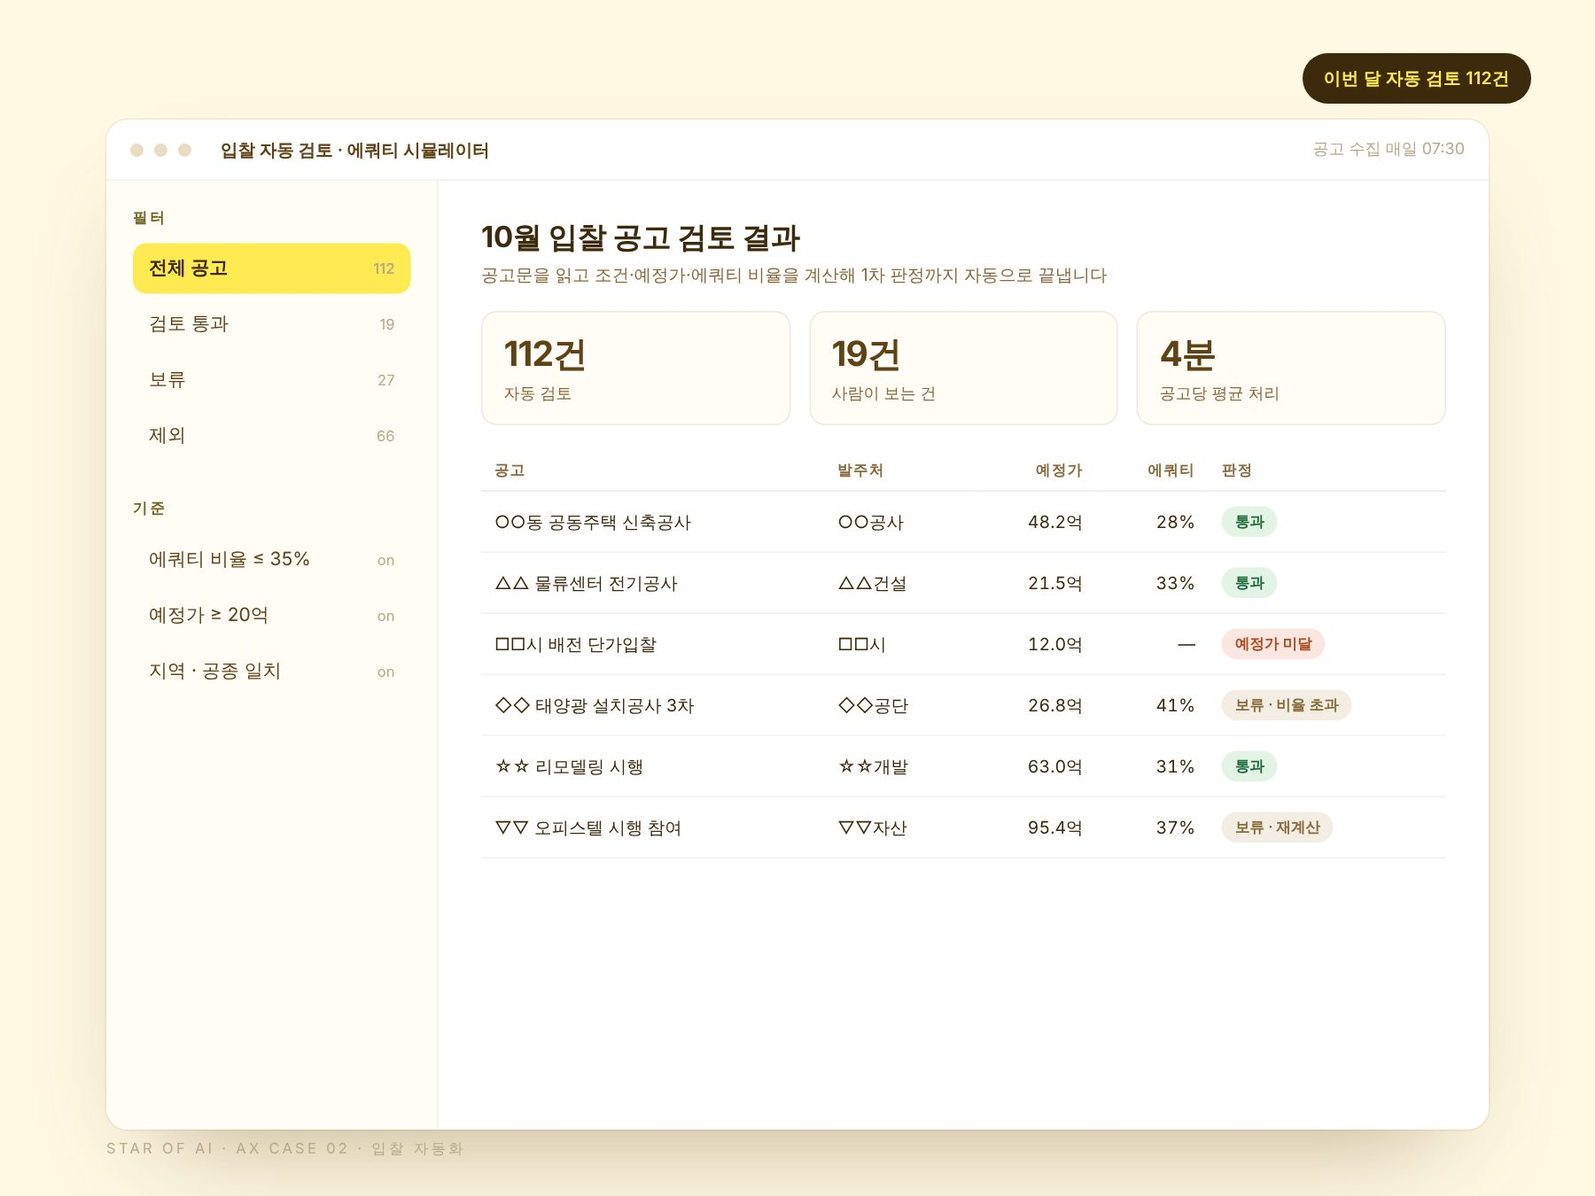
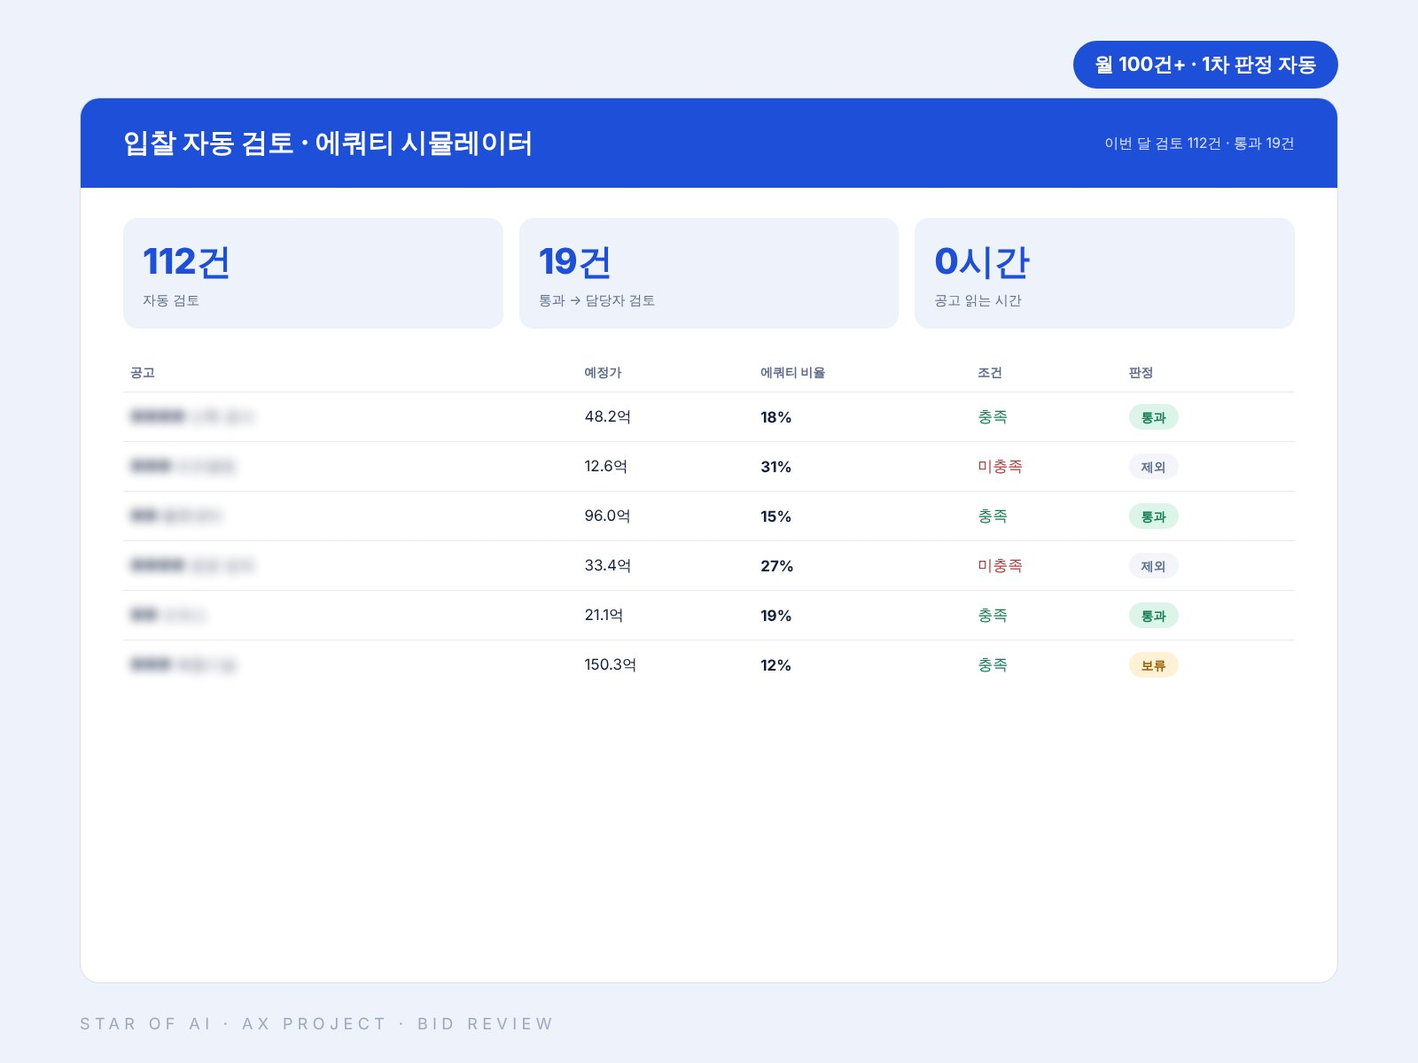
v10: 대비감 강화, 프로젝트 2건 추가, 강의 자료 이미지 반영
- 성과 카드 4장 명도 분리(진브라운→흰→노랑→올리브), 숫자·제목 볼드
- 플랜 카드 노랑→올리브→진브라운 3단계, 가격 42px 볼드
- 수강생 후기 중요 카드 진브라운 반전, 일반 카드 테두리 강화
- 브라운 토큰(brown/dark/light) 더 진하게, 본문 색·아이브로우 대비 ↑
- 프로젝트 추가: 콘텐츠 원가 비용 집계 자동화, 크리에이터·콘텐츠 성과 관리 대시보드
- 썸네일 재제작: cost(네이비+라임), creator(흰+보라), agent(딥그린), bid(블루)
- /study 커리큘럼 카드에 회차별 교안 이미지, 짝수 카드 진브라운
- /study '교안 · 실습 결과물' 띠 추가 (카드뉴스·사이트·브리핑·수료증, 수료증 이름 블러)

Claude-Session: https://claude.ai/code/session_01VqYUrkFTncW5YZPDm17tym

diff --git a/components/PriceCards.tsx b/components/PriceCards.tsx
@@ -1,9 +1,16 @@
 import Link from "next/link";
 import { PRODUCTS } from "@/lib/products";
-import { TONES, type Tone } from "@/lib/tones";
+import { type Tone } from "@/lib/tones";
 import Reveal from "./Reveal";
 
 const TONE_OF: Record<string, Tone> = { study: "starters", consulting: "workers", enterprise: "company" };
+
+// 밝은 노랑 → 중간 올리브 → 진한 브라운, 세 플랜의 명도를 확실히 가르고 가격은 가장 굵게
+const STYLE: Record<Tone, { card: string; eyebrow: string; name: string; summary: string; price: string; unit: string; bullet: string; dot: string; btn: string }> = {
+  starters: { card: "border-butter-deep bg-butter", eyebrow: "text-brown", name: "text-brown-dark", summary: "text-brown/90", price: "text-brown-dark", unit: "text-brown/80", bullet: "text-brown-dark", dot: "text-brown", btn: "btn-primary" },
+  workers: { card: "border-sage/40 bg-sage-soft", eyebrow: "text-sage", name: "text-brown-dark", summary: "text-brown/90", price: "text-brown-dark", unit: "text-brown/80", bullet: "text-brown-dark", dot: "text-sage", btn: "btn-primary" },
+  company: { card: "border-brown-dark bg-brown-dark", eyebrow: "text-butter", name: "text-white", summary: "text-butter-pale/85", price: "text-butter", unit: "text-butter-pale/75", bullet: "text-butter-pale", dot: "text-butter", btn: "btn-yellow" },
+};
 
 /** 세 가지 플랜. 고객군 색으로 구분되고, 아래에 커피챗 안내가 붙어요. */
 export default function PriceCards() {
@@ -12,29 +19,29 @@ export default function PriceCards() {
     <>
       <div className="grid gap-4 md:grid-cols-3">
         {list.map((p, i) => {
-          const t = TONES[TONE_OF[p.id]];
+          const t = STYLE[TONE_OF[p.id]];
           return (
             <Reveal key={p.id} delay={i * 100}>
-              <div className={`flex h-full flex-col rounded-2xl border p-7 transition-transform duration-500 hover:-translate-y-1 md:p-8 ${t.bg} ${t.border}`}>
-                <p className={`text-[12px] font-semibold uppercase tracking-[0.2em] ${t.text}`}>
+              <div className={`flex h-full flex-col rounded-2xl border p-7 transition-transform duration-500 hover:-translate-y-1 md:p-8 ${t.card}`}>
+                <p className={`text-[12px] font-bold uppercase tracking-[0.2em] ${t.eyebrow}`}>
                   {p.audience} · {p.en}
                 </p>
-                <h3 className="mt-4 text-[22px] font-bold leading-snug text-brown-dark">{p.name}</h3>
-                <p className="mt-3 text-[14.5px] leading-relaxed text-brown/85">{p.summary}</p>
+                <h3 className={`mt-4 text-[23px] font-extrabold leading-snug ${t.name}`}>{p.name}</h3>
+                <p className={`mt-3 text-[14.5px] leading-relaxed ${t.summary}`}>{p.summary}</p>
                 <div className="mt-7">
-                  <p className="font-serif text-[38px] font-semibold leading-none text-brown">{p.priceLabel}</p>
-                  <p className="mt-2 text-[13px] text-brown/70">{p.unit}</p>
+                  <p className={`font-serif text-[42px] font-bold leading-none ${t.price}`}>{p.priceLabel}</p>
+                  <p className={`mt-2 text-[13px] font-medium ${t.unit}`}>{p.unit}</p>
                 </div>
-                <ul className="mt-6 space-y-2 border-t border-brown/10 pt-6 text-[14px] text-brown/90">
+                <ul className={`mt-6 space-y-2 border-t border-current/15 pt-6 text-[14px] font-medium ${t.bullet}`}>
                   {p.bullets.map((b) => (
                     <li key={b} className="flex gap-2.5">
-                      <span className={t.text}>·</span>
+                      <span className={t.dot}>·</span>
                       {b}
                     </li>
                   ))}
                 </ul>
                 <div className="mt-auto pt-8">
-                  <Link href={p.href} className="btn-primary w-full">
+                  <Link href={p.href} className={`${t.btn} w-full`}>
                     자세히 보기
                   </Link>
                 </div>
@@ -44,10 +51,10 @@ export default function PriceCards() {
         })}
       </div>
       <Reveal delay={200}>
-        <div className="glass-card mt-6 flex flex-col items-start justify-between gap-4 md:flex-row md:items-center">
+        <div className="mt-6 flex flex-col items-start justify-between gap-4 rounded-2xl border border-brown/20 bg-white p-6 md:flex-row md:items-center md:p-7">
           <p className="text-[16px] text-brown-dark md:text-[17px]">
-            <b className="font-semibold">플랜 선택이 어렵다면 무료 커피챗을 신청해주세요.</b>
-            <span className="ml-2 text-brown/75">30분 안에 어떤 방법이 맞는지 같이 정해드려요.</span>
+            <b className="font-extrabold">플랜 선택이 어렵다면 무료 커피챗을 신청해주세요.</b>
+            <span className="ml-2 font-medium text-brown/80">30분 안에 어떤 방법이 맞는지 같이 정해드려요.</span>
           </p>
           <Link href="#coffee-chat" className="btn-primary shrink-0">무료 커피챗 신청</Link>
         </div>

diff --git a/components/Proof.tsx b/components/Proof.tsx
@@ -6,6 +6,14 @@ import Quote from "./Quote";
 
 const PICKED = [REVIEWS[0], REVIEWS[2], REVIEWS[6]];
 
+// 성과 카드 4장: 진한 브라운 → 흰색 → 노랑 → 올리브, 명도가 확실히 다르게
+const RESULT_STYLE = [
+  { card: "border-brown-dark bg-brown-dark", kind: "text-butter", org: "text-butter-pale/75", big: "text-butter", title: "text-white", desc: "text-butter-pale/85" },
+  { card: "border-brown/25 bg-white shadow-[0_18px_40px_-30px_rgba(46,31,8,.45)]", kind: "text-brown", org: "text-brown/70", big: "text-brown-dark", title: "text-brown-dark", desc: "text-brown/90" },
+  { card: "border-butter-deep bg-butter", kind: "text-brown", org: "text-brown/70", big: "text-brown-dark", title: "text-brown-dark", desc: "text-brown/90" },
+  { card: "border-sage/40 bg-sage-soft", kind: "text-sage", org: "text-brown/70", big: "text-brown-dark", title: "text-brown-dark", desc: "text-brown/90" },
+];
+
 /** 이력을 나열하는 대신, 스크롤하며 설득되는 성과 섹션 */
 export default function Proof() {
   const orgs = Array.from(new Set(LECTURES.map((l) => l.org)));
@@ -34,22 +42,25 @@ export default function Proof() {
       </div>
 
       <div className="space-y-4">
-        {RESULTS.map((r, i) => (
+        {RESULTS.map((r, i) => {
+          const c = RESULT_STYLE[i % RESULT_STYLE.length];
+          return (
           <Reveal key={r.title} delay={i * 80}>
-            <article className={`rounded-2xl border p-7 md:p-9 ${i === 0 ? "border-brown bg-brown text-butter-pale" : "border-brown/10 bg-white"}`}>
+            <article className={`rounded-2xl border p-7 md:p-9 ${c.card}`}>
               <div className="flex items-center justify-between text-[12px]">
-                <span className={`font-semibold uppercase tracking-[0.18em] ${i === 0 ? "text-butter/80" : "text-olive"}`}>{r.kind}</span>
-                <span className={i === 0 ? "text-butter-pale/75" : "text-brown/65"}>{r.org}</span>
+                <span className={`font-bold uppercase tracking-[0.18em] ${c.kind}`}>{r.kind}</span>
+                <span className={c.org}>{r.org}</span>
               </div>
-              <p className={`mt-6 font-serif text-[44px] font-semibold leading-none md:text-[60px] ${i === 0 ? "text-butter" : "text-brown"}`}>{r.big}</p>
-              <p className={`mt-4 text-[18px] font-bold ${i === 0 ? "text-butter" : "text-brown-dark"}`}>{r.title}</p>
-              <p className={`mt-2 text-[15px] leading-relaxed ${i === 0 ? "text-butter-pale/85" : "text-brown/85"}`}>{r.desc}</p>
+              <p className={`mt-6 font-serif text-[48px] font-bold leading-none md:text-[64px] ${c.big}`}>{r.big}</p>
+              <p className={`mt-4 text-[19px] font-extrabold ${c.title}`}>{r.title}</p>
+              <p className={`mt-2 text-[15px] leading-relaxed ${c.desc}`}>{r.desc}</p>
             </article>
           </Reveal>
-        ))}
+          );
+        })}
 
         <Reveal delay={100}>
-          <div className="rounded-2xl bg-paper p-7 md:p-9">
+          <div className="rounded-2xl border border-brown/20 bg-white p-7 md:p-9">
             <div className="grid grid-cols-3 gap-4 text-center">
               {[
                 { v: SURVEY.overall, d: 2, s: "/5", l: "전체 만족도" },
@@ -57,19 +68,19 @@ export default function Proof() {
                 { v: SURVEY.recommend, d: 2, s: "/10", l: "추천 의향" },
               ].map((x) => (
                 <div key={x.l}>
-                  <p className="font-serif text-[34px] font-semibold leading-none text-brown md:text-[44px]">
+                  <p className="font-serif text-[36px] font-bold leading-none text-brown-dark md:text-[46px]">
                     <CountUp value={x.v} decimals={x.d} />
                     <span className="text-[16px]">{x.s}</span>
                   </p>
-                  <p className="mt-2 text-[12px] text-brown/75 md:text-[13px]">{x.l}</p>
+                  <p className="mt-2 text-[12px] font-semibold text-brown md:text-[13px]">{x.l}</p>
                 </div>
               ))}
             </div>
-            <ul className="mt-8 space-y-5 border-t border-brown/10 pt-7">
+            <ul className="mt-8 space-y-5 border-t border-brown/15 pt-7">
               {PICKED.map((r) => (
                 <li key={r.quote}>
-                  <p className="text-[16px] font-medium leading-relaxed text-brown/85 md:text-[17px]">“<Quote text={r.quote} />”</p>
-                  <p className="mt-1.5 text-[12.5px] text-brown/65">{r.who}</p>
+                  <p className="text-[16px] font-medium leading-relaxed text-brown-dark md:text-[17px]">“<Quote text={r.quote} hl />”</p>
+                  <p className="mt-1.5 text-[12.5px] font-medium text-brown/75">{r.who}</p>
                 </li>
               ))}
             </ul>

diff --git a/app/study/page.tsx b/app/study/page.tsx
@@ -11,7 +11,7 @@ import FAQ from "@/components/FAQ";
 import StickyBar from "@/components/StickyBar";
 import CountUp from "@/components/CountUp";
 import { SURVEY } from "@/lib/proof";
-import { STUDY, LECTURE_PHOTOS, STUDENT_PROJECTS } from "@/lib/study";
+import { STUDY, LECTURE_PHOTOS, STUDENT_PROJECTS, STUDY_MATERIALS } from "@/lib/study";
 import { Voices } from "@/components/Deliverables";
 import ImageBand from "@/components/ImageBand";
 import Hl from "@/components/Hl";
@@ -121,26 +121,43 @@ export default function StudyPage() {
           <div className="grid gap-4 md:grid-cols-2">
             {STUDY.sessions.map((s, i) => (
               <Reveal key={s.no} delay={i * 80}>
-                <div className="h-full rounded-2xl border border-brown/10 bg-white p-7 md:p-8">
-                  <div className="flex flex-wrap items-center justify-between gap-2 text-[13px]">
-                    <span className="font-semibold text-olive">{s.no}</span>
-                    <span className="chip">{s.mode}</span>
+                <div className={`h-full overflow-hidden rounded-2xl border ${i % 2 === 0 ? "border-brown/20 bg-white" : "border-brown-dark bg-brown-dark text-butter-pale"}`}>
+                  {s.image && (
+                    <div className="relative aspect-[21/9] border-b border-brown/10 bg-paper">
+                      <Image src={s.image} alt={s.imageAlt ?? s.title} fill sizes="(min-width:768px) 50vw, 100vw" className="object-cover object-top" />
+                      <span className="absolute left-4 top-4 rounded-full bg-brown-dark px-3 py-1 text-[12px] font-bold text-butter">{s.no} 교안</span>
+                    </div>
+                  )}
+                  <div className="p-7 md:p-8">
+                    <div className="flex flex-wrap items-center justify-between gap-2 text-[13px]">
+                      <span className={`font-bold ${i % 2 === 0 ? "text-brown" : "text-butter"}`}>{s.no}</span>
+                      <span className={i % 2 === 0 ? "chip" : "rounded-full border border-butter/40 px-3 py-1 text-[12px] font-semibold text-butter"}>{s.mode}</span>
+                    </div>
+                    <p className={`mt-4 font-serif text-[21px] font-bold ${i % 2 === 0 ? "text-brown-dark" : "text-butter"}`}>{s.date}</p>
+                    <h3 className={`mt-2 text-[18px] font-extrabold ${i % 2 === 0 ? "text-brown-dark" : "text-white"}`}>{s.title}</h3>
+                    <ul className={`mt-5 space-y-2 border-t pt-5 text-[14.5px] ${i % 2 === 0 ? "border-brown/15 text-brown/90" : "border-butter/20 text-butter-pale/85"}`}>
+                      {s.items.map((it) => (
+                        <li key={it} className="flex gap-2.5">
+                          <span className={i % 2 === 0 ? "font-bold text-brown" : "font-bold text-butter"}>·</span>
+                          {it}
+                        </li>
+                      ))}
+                    </ul>
                   </div>
-                  <p className="mt-4 font-serif text-[20px] font-semibold text-brown">{s.date}</p>
-                  <h3 className="mt-2 text-[18px] font-bold text-brown-dark">{s.title}</h3>
-                  <ul className="mt-5 space-y-2 border-t border-brown/10 pt-5 text-[14.5px] text-brown/85">
-                    {s.items.map((it) => (
-                      <li key={it} className="flex gap-2.5">
-                        <span className="text-olive">·</span>
-                        {it}
-                      </li>
-                    ))}
-                  </ul>
                 </div>
               </Reveal>
             ))}
           </div>
         </div>
+      </section>
+
+      {/* 교안 · 실습 결과물 */}
+      <section className="wrap pt-24 md:pt-32">
+        <ImageBand
+          eyebrow="교안 · 실습 결과물"
+          images={STUDY_MATERIALS}
+          note="실제 수업에서 쓰는 교안과 수강생이 실습 시간에 만든 결과물이에요. 교안은 매 기수 최신 버전으로 업데이트됩니다."
+        />
       </section>
 
       {/* 1기 결과물 */}

diff --git a/lib/study.ts b/lib/study.ts
@@ -18,6 +18,8 @@ export const STUDY = {
       date: "11월 8일(일) 14:30–17:00",
       mode: "오프라인",
       title: "클로드 코드 설치 & 기본기 학습 강의",
+      image: "/images/study/ep1-deck.jpg",
+      imageAlt: "1회차 교안 — 클로드 코드 설치와 기본기",
       items: ["설치 · 터미널 · 권한 초기 셋팅", "스킬 / 토큰 사용 / 커넥터 / 모델 개념 잡기", "클로드 코드로 나만의 사이트 만들어보기"],
     },
     {
@@ -25,6 +27,8 @@ export const STUDY = {
       date: "11월 15일(일) 20:00–22:00",
       mode: "온라인",
       title: "실무 자동화 사례 해부 & 샘플 데이터 실습 강의",
+      image: "/images/study/ep2-deck.jpg",
+      imageAlt: "2회차 교안 — 실무 자동화 사례 해부",
       items: ["실습: 나만의 AI 팀 만들어서 전사적 자동화하기", "샘플 데이터 제공 예정", "자동화가 되는 업무 vs 안 되는 업무 구분법"],
     },
     {
@@ -32,6 +36,8 @@ export const STUDY = {
       date: "11월 18일(수) 20:00–22:00",
       mode: "온라인",
       title: "내 업무 자동화 기획 발표 & 피드백",
+      image: "/images/study/ep3-flow.jpg",
+      imageAlt: "3회차 자료 — 자동화 기획 플로우",
       items: ["기획안은 전날(11/17)까지 제출 (세션은 피드백 중심으로 진행)", "필요한 데이터 · 권한 체크리스트 정리", "최종 발표까지 남은 5일 작업 플랜 짜기"],
     },
     {
@@ -39,6 +45,8 @@ export const STUDY = {
       date: "11월 22일(일) 16:30–19:00",
       mode: "오프라인",
       title: "최종 자동화 발표 & 네트워킹",
+      image: "/images/study/ep4-deck.jpg",
+      imageAlt: "4회차 교안 — 최종 발표와 운영 팁",
       items: ["각 팀원별 완성한 자동화 라이브 시연", "운영 · 유지보수 · 확장 팁", "네트워킹 회식 (이후 자유)"],
     },
   ],
@@ -57,6 +65,14 @@ export const STUDY = {
     "성균관대학교 디자인학과 학사 졸업 & PMBA 석사 재학 중",
   ],
 };
+
+// 교안 · 실습 결과물 (AI 강의 자료 폴더). public/images/study/ 에 넣고 여기에 추가하면 커리큘럼 아래 띠에 나와요.
+export const STUDY_MATERIALS = [
+  { src: "/images/study/practice-cardnews.jpg", alt: "실습 결과물 — 클로드 코드로 만든 카드뉴스", caption: "실습 · 카드뉴스 자동 생성" },
+  { src: "/images/study/practice-site.jpg", alt: "실습 결과물 — 클로드 코드로 만든 개인 사이트", caption: "실습 · 나만의 사이트 만들기" },
+  { src: "/images/study/practice-briefing.jpg", alt: "실습 결과물 — 자동 브리핑 결과", caption: "실습 · 매일 아침 자동 브리핑" },
+  { src: "/images/study/certificate.jpg", alt: "스터디 수료증", caption: "4회 완주 시 수료증 발급" },
+];
 
 // 강의 현장 사진. public/images/lectures/ 에 파일을 넣고 여기에 추가하면 스터디 페이지에 바로 나와요.
 // 1기 스터디 현장 사진 (강의사진 폴더)

diff --git a/components/ReviewMarquee.tsx b/components/ReviewMarquee.tsx
@@ -3,11 +3,11 @@ import Quote from "./Quote";
 
 function Card({ r }: { r: (typeof REVIEWS)[number] }) {
   return (
-    <figure className={`mx-2 flex w-[300px] shrink-0 flex-col justify-between rounded-2xl border p-6 md:w-[340px] ${r.hot ? "border-butter bg-butter-pale" : "border-brown/10 bg-white"}`}>
-      <blockquote className="text-[15px] leading-relaxed text-brown/85">“<Quote text={r.quote} />”</blockquote>
-      <figcaption className="mt-5 flex items-center justify-between text-[12px] text-brown/75">
+    <figure className={`mx-2 flex w-[300px] shrink-0 flex-col justify-between rounded-2xl border p-6 md:w-[340px] ${r.hot ? "border-brown-dark bg-brown-dark" : "border-brown/20 bg-white"}`}>
+      <blockquote className={`text-[15.5px] leading-relaxed ${r.hot ? "text-butter-pale/85" : "text-brown-dark"}`}>“<Quote text={r.quote} className={r.hot ? "!text-butter" : ""} />”</blockquote>
+      <figcaption className={`mt-5 flex items-center justify-between text-[12px] ${r.hot ? "text-butter-pale/70" : "text-brown/75"}`}>
         <span>{r.who}</span>
-        <span className="font-semibold text-brown">추천 {r.score}/10</span>
+        <span className={`font-bold ${r.hot ? "text-butter" : "text-brown-dark"}`}>추천 {r.score}/10</span>
       </figcaption>
     </figure>
   );

diff --git a/components/ImageBand.tsx b/components/ImageBand.tsx
@@ -14,17 +14,17 @@ export default function ImageBand({ images, eyebrow, note }: { images: BandImage
     <div>
       {eyebrow && (
         <Reveal>
-          <p className="mb-5 text-[12px] font-semibold uppercase tracking-[0.2em] text-brown/75">{eyebrow}</p>
+          <p className="mb-5 text-[12px] font-bold uppercase tracking-[0.2em] text-brown">{eyebrow}</p>
         </Reveal>
       )}
       <div className={`grid grid-cols-2 gap-3 md:gap-4 ${cols}`}>
         {images.map((im, i) => (
           <Reveal key={im.src} delay={i * 90}>
-            <figure className="overflow-hidden rounded-2xl border border-brown/10 bg-white">
+            <figure className="overflow-hidden rounded-2xl border border-brown/20 bg-white">
               <div className="relative aspect-[4/3]">
                 <Image src={im.src} alt={im.alt} fill sizes="(min-width:768px) 25vw, 50vw" className="object-cover" />
               </div>
-              {im.caption && <figcaption className="px-3 py-2.5 text-[12.5px] font-medium text-brown/85">{im.caption}</figcaption>}
+              {im.caption && <figcaption className="px-3 py-2.5 text-[12.5px] font-semibold text-brown-dark">{im.caption}</figcaption>}
             </figure>
           </Reveal>
         ))}

diff --git a/lib/projects.ts b/lib/projects.ts
@@ -77,6 +77,26 @@ export const PROJECTS: Project[] = [
     forCompany: true,
   },
   {
+    id: "cost",
+    category: "콘텐츠 · 브랜딩",
+    org: "콘텐츠 기업 · 재무",
+    title: "콘텐츠 원가 비용 집계 자동화",
+    hook: "원가가 매월 1일 알아서 모여요",
+    how: "흩어진 시트·영수증 메일·정산서를 읽어 채널별·크리에이터별 원가를 집계하고, 정산 대기 건은 담당자에게 알립니다.",
+    image: "/images/projects/cost.jpg",
+    forCompany: true,
+  },
+  {
+    id: "creator",
+    category: "콘텐츠 · 브랜딩",
+    org: "크리에이터 에이전시",
+    title: "크리에이터 · 콘텐츠 성과 관리 대시보드",
+    hook: "성과를 한 화면에, 매일 아침",
+    how: "채널별 조회·참여·팔로워 데이터를 매일 모아 노션 DB와 웹 대시보드로 갱신하고, 주간 요약을 슬랙으로 보냅니다.",
+    image: "/images/projects/creator.jpg",
+    forCompany: true,
+  },
+  {
     id: "research",
     category: "리서치 · 데이터",
     org: "Star of AI · 자체 운영",

diff --git a/app/globals.css b/app/globals.css
@@ -5,14 +5,14 @@
 :root {
   --cream: #fffdf5;
   --butter: #ffeb51;
-  --brown: #614215;
+  --brown: #553a10;
   --olive: #70631f;
 }
 
 html { scroll-behavior: smooth; }
 body {
   background: var(--cream);
-  color: #3d2a0c;
+  color: #2e1f08;
   font-family: "Pretendard Variable", Pretendard, system-ui, sans-serif;
   -webkit-font-smoothing: antialiased;
   word-break: keep-all;
@@ -22,7 +22,7 @@ body {
 
 @layer components {
   .wrap { @apply mx-auto w-full max-w-site px-5 md:px-8; }
-  .eyebrow { @apply text-[12px] font-semibold uppercase tracking-[0.22em] text-olive; }
+  .eyebrow { @apply text-[12px] font-bold uppercase tracking-[0.22em] text-brown; }
   .h-display { @apply font-kserif font-bold leading-[1.18] tracking-[-0.02em] text-brown-dark; }
   .btn {
     @apply inline-flex items-center justify-center gap-2 rounded-full px-6 py-3.5 text-[15px] font-semibold transition-all duration-300 will-change-transform;

diff --git a/tailwind.config.ts b/tailwind.config.ts
@@ -9,7 +9,7 @@ const config: Config = {
         cream: "#FFFDF5",
         paper: "#FFF9E3",
         butter: { DEFAULT: "#FFEB51", soft: "#FFEC8C", deep: "#FFE855", pale: "#FFF6C7" },
-        brown: { DEFAULT: "#614215", dark: "#3D2A0C", light: "#8A6A3A" },
+        brown: { DEFAULT: "#553A10", dark: "#2E1F08", light: "#7E6132" },
         olive: "#70631F",
         // Starters(노랑) · Workers(올리브) · Company(브라운) 구분용 연한 바탕
         sage: { DEFAULT: "#70631F", pale: "#EEF0DA", soft: "#DDE3B8" },
